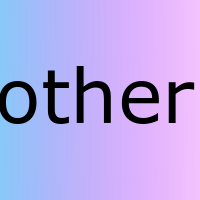
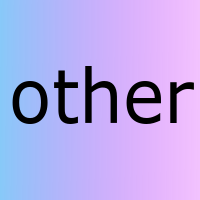
dynamic user submissions page. todo: same for main page

Changed region(s): [[0.0, 0.33, 0.81, 0.63], [0.84, 0.39, 0.93, 0.63], [0.96, 0.42, 0.99, 0.45]]

diff --git a/site/server.js b/site/server.js
@@ -44,7 +44,7 @@ async function start() {
   db = await sqlite.open("./db.sqlite");
   console.log(db);
 
-  let as = await db.all("select * from users");
+  let as = await db.all("select * from uploads");
   console.log(as);
 
   let uploadsTemp  = process.cwd() + "\\upload_temp\\";
@@ -221,10 +221,10 @@ async function handleDownload(request, response) {
     return;
   }
 
+  await db.run("update uploads set no_downloads = no_downloads + 1 where upload_id = " + contentid);
+
   let filestream = fs_sync.createReadStream(filepath);
-  response.writeHead(200, {
-        "Content-disposition": "attachment;filename=" + content.filename
-    });
+  response.writeHead(200, { "Content-disposition": "attachment;filename=" + content.filename });
 
   filestream.pipe(response);
 };
@@ -315,22 +315,22 @@ async function handleUser(request, response) {
   let user = await ps_user.get(user_id);
   if (isEmpty(user)) return fail(response, NotFound, "No such user with that id");
 
-  let contents = user.submissions.split("|");
-
   let template = await fs.readFile(root + "/user.html","utf8");
   if (isEmpty(template)) return fail(response, Error, "Content file not found.");
   let ts = template.split("$");
 
+  let contents = user.submissions.split("|");
+
   let user_stats = await getUserStats(contents);
+  let submissions_html = await loopUserSubmissions(contents);
 
   let i = 0;
   let page = ts[i] + user.username + ts[++i];
+  page += submissions_html + ts[++i];
   page += user.join_date + ts[++i] + user_stats.downloads + ts[++i];
   page += user_stats.favourites + ts[++i] + user_stats.submissions + ts[++i];
   page += user.about + ts[++i];
 
-  // TODO: add image handling using:
-  // https://stackoverflow.com/questions/5823722/how-to-serve-an-image-using-nodejs
   deliver(response, "application/xhtml+xml", page);
 };
 
@@ -369,11 +369,56 @@ function getRequestData(request, response, callback) {
   };
 };
 
+async function loopUserSubmissions(contents) {
+  //if (contents[0] == '') return "<em>This user has not submitted anything yet!</em>";
+
+  let loop_html = "";
+  let file = "user_submission.html";
+  let template = await fs.readFile(file,"utf8");
+  console.log(template);
+  let ts = template.split("$");
+
+  let x = "1|2|";
+  let submissions = x.split("|");
+
+  let ps = await db.prepare("select * from uploads where upload_id=?;");
+
+  for (let sm of submissions) {
+    try {
+      console.log(sm);
+      if (sm != '') {
+        let content_id = parseInt(sm);
+        let content = await ps.get(content_id);
+        let i = 0;
+        let row = ts[0];
+
+        switch (content.category) {
+          case "o_map":    row += "bsp_svg.svg" + ts[++i]; break;
+          case "o_config": row += "cfg_svg.svg" + ts[++i]; break;
+          case "o_model":  row += "mod_svg.svg" + ts[++i]; break;
+          case "o_other":  row += "oth_svg.svg" + ts[++i]; break;
+          default: row += "blank.svg" + ts[++i]; break;
+        };
+
+        row += "/content/" + content.upload_id + ts[++i] + content.name + ts[++i];
+        row += content.upload_date + ts[++i];
+        row += content.no_downloads + ts[++i] + content.no_favourites + ts[++i];
+        loop_html += row;
+
+      };
+    }
+    catch(err) {
+      console.log(err);
+    };
+  };
+
+  return loop_html;
+}
+
 async function getUserStats(contents) {
   //if (contents[0] == '') return {favourites:0, submissions:0, downloads:0};
   let x = "1|2|";
   let submissions = x.split("|");
-  //let contents = user.submissions.split("|");
 
   let no_dnls = 0, no_favs = 0, no_subs = 0;
   let ps = await db.prepare("select * from uploads where upload_id=?;");
@@ -394,7 +439,7 @@ async function getUserStats(contents) {
     };
   };
 
-  console.log("no_dnls= " + no_dnls + ", no_favs= " + no_favs + ", no_subs= " + no_subs);
+  //console.log("no_dnls= " + no_dnls + ", no_favs= " + no_favs + ", no_subs= " + no_subs);
   return { downloads: no_dnls, favourites: no_favs, submissions: no_subs };
 };
 

diff --git a/site/public/user.html b/site/public/user.html
@@ -29,33 +29,7 @@
 
             <table><tbody>
 
-              <tr class="submission">
-                <td style="width:70px">
-                  <object data="/resources/img/bsp_svg.svg" type="image/svg+xml"></object>
-                </td>
-                <td>
-                  <h2><a href="map.html">map.bsp</a></h2>
-                  <p id="upload_tag"> Uploaded 01/04/2020</p>
-                  <p><strong>
-                    <i class="fa fa-download" style="color:blue"></i> 1 &#160;&#160;
-                    <i class="fa fa-heart" style="color:red"></i> 10
-                  </strong></p>
-                </td>
-              </tr>
-
-              <tr class="submission">
-                <td style="width:70px">
-                  <object data="resources/img/bsp_svg.svg" type="image/svg+xml"></object>
-                </td>
-                <td>
-                  <h2><a href="map.html">map.bsp</a></h2>
-                  <p id="upload_tag"> Uploaded 01/04/2020</p>
-                  <p><strong>
-                    <i class="fa fa-download" style="color:blue"></i> 1 &#160;&#160;
-                    <i class="fa fa-heart" style="color:red"></i> 10
-                  </strong></p>
-                </td>
-              </tr>
+              $
 
             </tbody></table>
 

diff --git a/site/user_submission.html b/site/user_submission.html
@@ -1,0 +1,13 @@
+<tr class="submission">
+  <td style="width:70px">
+    <object data="/resources/img/$" type="image/svg+xml"></object>
+  </td>
+  <td>
+    <h2><a href="$">$</a></h2>
+    <p id="upload_tag"> Uploaded $</p>
+    <p><strong>
+      <i class="fa fa-download" style="color:blue"></i> $ &#160;&#160;
+      <i class="fa fa-heart" style="color:red"></i> $
+    </strong></p>
+  </td>
+</tr>
